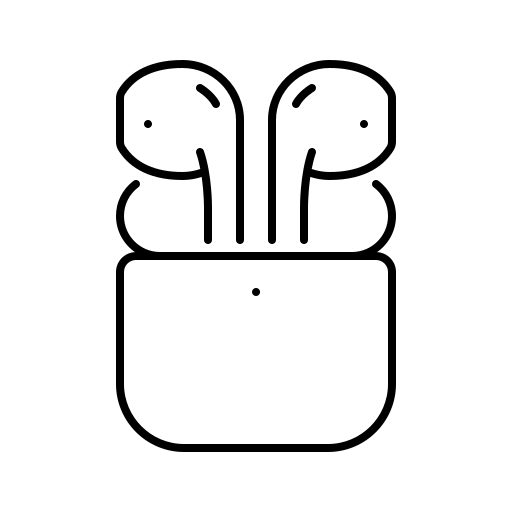
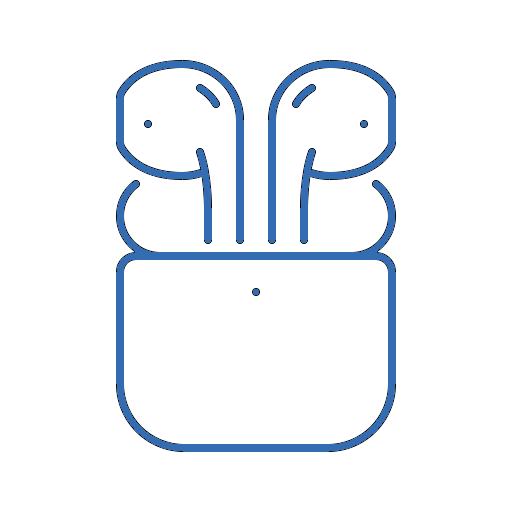
finall update for home page

diff --git a/resources/css/app.css b/resources/css/app.css
@@ -332,15 +332,15 @@ header {
 
 .category {
     background: rgba(255, 255, 255, 0.06);
-    border: 1px solid var(--stroke, #ccc);
+    border: 3px solid #336CB1;
     border-radius: clamp(0.5rem, 1vw, 1rem);
     max-width: 100px;
     min-width: 80px;
     margin: 0 auto;
     text-align: center;
     padding: clamp(0.5rem, 1.2vw, 1rem);
-    background-color: #4c9dff;
-    box-shadow: clamp(4px, 0.8vw, 10px) clamp(4px, 0.8vw, 10px) clamp(8px, 1vw, 12px) #336CB1;
+    /* background-color: #4c9dff; */
+    box-shadow: clamp(4px, 0.2vw, 10px) clamp(4px, 0.1vw, 10px) clamp(8px, 1vw, 12px) #336CB1;
     transition: transform 0.3s ease, box-shadow 0.3s ease;
 }
 

diff --git a/resources/views/layouts/Achievements.blade.php b/resources/views/layouts/Achievements.blade.php
@@ -1,62 +1,96 @@
+
 <style>
-    .Achievements {
-      display: grid;
-      grid-template-columns: repeat(3, minmax(150px, 1fr));
-      grid-template-rows: repeat(4, minmax(100px, auto));
-      gap: 1rem;
-      grid-template-areas:
-        "a b b"
-        "c b b"
-        "d d e"
-        "d d f";
-      padding: clamp(1rem, 4vw, 5rem);
-      width: clamp(50%, 60% , 70% );
-      margin: 0 auto;
-    }
+    .stats {
+  display: flex;
+  justify-content: center;
+  align-items: center;
+  flex-wrap: wrap;
+  gap: 3rem;
+  padding: 0 2rem 5rem 2rem ;
+  color: #fff;
+  text-align: center;
+}
 
-    .grid-box {
-      background-color: #336cb1;
-      display: flex;
-      justify-content: center;
-      align-items: center;
-      padding: clamp(1rem, 3vw, 4rem);
-      border-radius: 1rem;
-      color: white;
-      font-size: clamp(0.9rem, 1.5vw, 1.3rem);
-      text-align: center;
-      transition: all 0.3s ease;
-    }
+.stat-box {
+  background: #336cb1;
+  backdrop-filter: blur(10px);
+  padding: 2rem 3rem;
+  border-radius: 1.5rem;
+  box-shadow: 0 4px 15px rgba(0, 0, 0, 0.15);
+  transition: transform 0.3s ease, background 0.3s ease;
+}
 
-    /* مناطق گرید */
-    .a { grid-area: a; }
-    .b { grid-area: b; }
-    .c { grid-area: c; }
-    .d { grid-area: d; }
-    .e { grid-area: e; }
-    .f { grid-area: f; }
+.stat-box:hover {
+  transform: translateY(-10px);
+  background: rgba(255, 255, 255, 0.2);
+}
 
-    /* 💡 ریسپانسیو برای نمایشگرهای کوچکتر */
-    @media (max-width: 900px) {
-      .Achievements {
-        grid-template-columns: 1fr;
-        grid-template-areas:
-          "a"
-          "b"
-          "c"
-          "d"
-          "e"
-          "f";
-          max-width: 450px;
-      }
+.stat-box h2 {
+  font-size: 3rem;
+  font-weight: 800;
+  margin-bottom: 0.5rem;
+}
 
-    }
-  </style>
+.stat-box p {
+  font-size: 1.2rem;
+  opacity: 0.9;
+}
 
-  <section class="Achievements">
-    <div class="grid-box a"></div>
-    <div class="grid-box b">b</div>
-    <div class="grid-box c">c</div>
-    <div class="grid-box d">d</div>
-    <div class="grid-box e">e</div>
-    <div class="grid-box f">f</div>
+@media (max-width: 768px) {
+  .stats {
+    flex-direction: column;
+    gap: 2rem;
+  }
+  .stat-box h2 {
+    font-size: 2.5rem;
+  }
+}
+
+</style>
+
+  <section class="stats">
+    <div class="stat-box">
+      <h2 class="counter" data-target="3">0</h2>
+      <p>سال تجربه</p>
+    </div>
+    <div class="stat-box">
+      <h2 class="counter" data-target="850">0</h2>
+      <p>کاربر و مشتری</p>
+    </div>
+    <div class="stat-box">
+      <h2 class="counter" data-target="1200">0</h2>
+      <p>تعداد کالا های فروخته شده</p>
+    </div>
   </section>
+
+  <script>
+    const counters = document.querySelectorAll('.counter');
+    const speed = 200; // عدد بزرگتر = شمارش کندتر
+
+    const startCounting = () => {
+      counters.forEach(counter => {
+        const updateCount = () => {
+          const target = +counter.getAttribute('data-target');
+          const count = +counter.innerText;
+          const inc = target / speed;
+
+          if (count < target) {
+            counter.innerText = Math.ceil(count + inc);
+            setTimeout(updateCount, 10);
+          } else {
+            counter.innerText = '+' + counter.innerText;
+          }
+        };
+        updateCount();
+      });
+    };
+
+    // شروع شمارش وقتی کاربر بخش را ببیند
+    const observer = new IntersectionObserver(entries => {
+      entries.forEach(entry => {
+        if (entry.isIntersecting) startCounting();
+      });
+    });
+
+    observer.observe(document.querySelector('.stats'));
+  </script>

diff --git a/resources/views/layouts/map.blade.php b/resources/views/layouts/map.blade.php
@@ -1,0 +1,45 @@
+<style>
+    .iran-map {
+        display: flex;
+        justify-content: center;
+        align-items: center;
+        flex-direction: column;
+    }
+
+    .map img {
+        width: 70%;
+    }
+
+    .map h1 {
+        position: relative;
+        display: inline-block;
+        width: fit-content;
+        /* background-color: #F59E0B; */
+        margin-right: 3%;
+        padding: 1% 3%;
+        color: #336cb1;
+        border-radius: 20px;
+    }
+
+    .map h1::after {
+
+        content: "";
+        position: absolute;
+        left: 5%;
+        bottom: 0;
+        width: 90%;
+        height: 2px;
+        background-color: #F59E0B;
+        box-shadow: 0px 7px 10px #F59E0B;
+    }
+
+</style>
+
+<section class="map">
+
+    <h1> ارسال رایگان به ۳ استان کشور:</h1>
+
+    <div class="iran-map">
+        <img src="/images/map3.png" alt="">
+    </div>
+</section>

diff --git a/resources/views/layouts/categories.blade.php b/resources/views/layouts/categories.blade.php
@@ -4,7 +4,7 @@
         <img src="/images/mobile-phone.png" alt="">
     </div>
     <div class="category">
-        <img src="/images/laptop.png" alt="">
+        <img src="/images/laptop2.png" alt="">
     </div>
     <div class="category">
         <img src="/images/speaker.png" alt="">
@@ -13,7 +13,7 @@
         <img src="/images/airpods.png" alt="">
     </div>
     <div class="category">
-        <img src="/images/laptop.png" alt="">
+        <img src="/images/laptop2.png" alt="">
     </div>
 
 </section>

diff --git a/resources/views/home.blade.php b/resources/views/home.blade.php
@@ -9,10 +9,10 @@
     <!-- دستهبندیها -->
      @include('layouts.categories')
 
+    <!-- نقشه -->
+     @include('layouts.map')
 
-
-
-    <!-- محصولات -->
+    <!-- افتخارات -->
     @include('layouts.Achievements')
 
 
